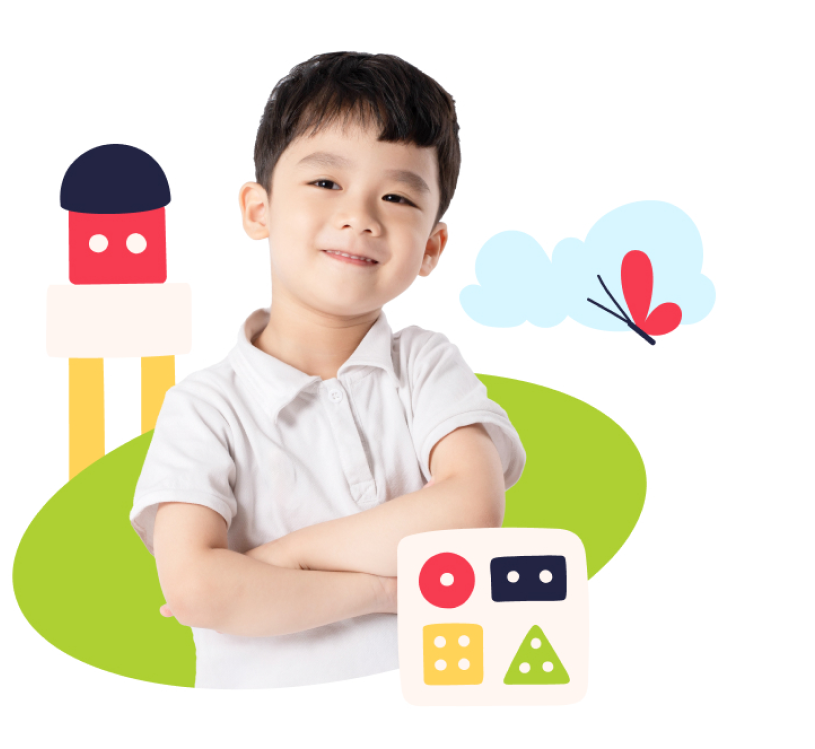
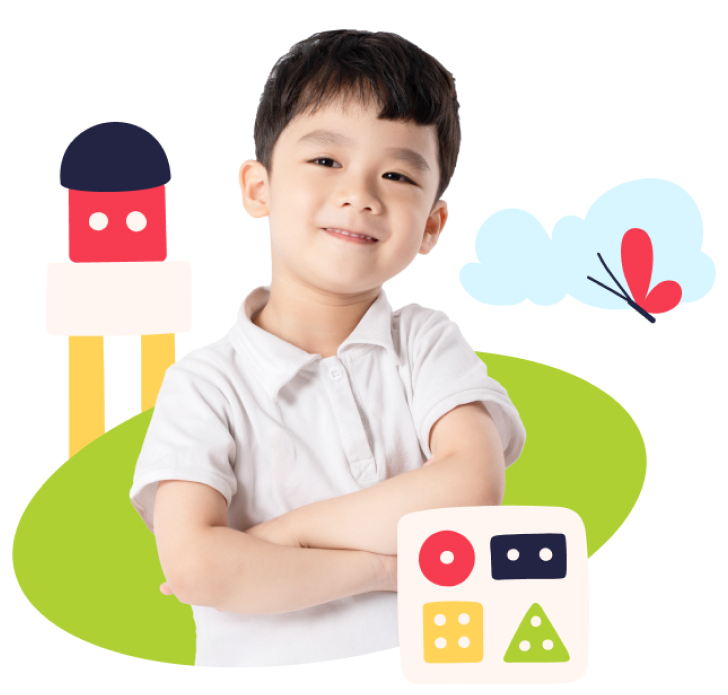
making responsive ui

diff --git a/Frontend/src/materialUIComponents/navbar/ResponsiveAppBar.js b/Frontend/src/materialUIComponents/navbar/ResponsiveAppBar.js
@@ -7,12 +7,13 @@ import { Button, Drawer, List, ListItem, ListItemText } from '@mui/material';
 import { Box } from '@mui/system';
 import { useTheme } from '@mui/material/styles';
 import useMediaQuery from '@mui/material/useMediaQuery';
+import logo from '../../assests/logo.png'
 import './NavBar.css'
 
 const Navbar = () => {
   const [drawerOpen, setDrawerOpen] = useState(false);
   const [scrolled, setScrolled] = useState(false);
-  const menuItems = ['About', 'Classes', 'Events', 'Teachers', 'Blog'];
+  const menuItems = ['About', 'Classes', 'Events', 'Teachers', 'Blog', 'Contact'];
 
   const theme = useTheme();
   const isMobile = useMediaQuery(theme.breakpoints.down('md'));
@@ -61,13 +62,16 @@ const Navbar = () => {
       backgroundColor: scrolled ? '#ffffff' : 'transparent',
       transition: 'background-color 0.2s ease',
       boxShadow: scrolled ? 2 : 'none',
-      zIndex:'1000',
-      top:'0px'
+      zIndex: '1000',
+      top: '0px'
     }}>
       <Toolbar>
+        <Box sx={{ flexGrow: 1.1, display: 'flex', justifyContent: 'flex-start' }}>
+          <img src={logo} srcSet={logo} alt='SPS' id='schoolLogo'/>
+        </Box>
         {isMobile ? (
           <>
-            <IconButton edge="start" color="inherit" aria-label="menu" onClick={handleDrawerToggle}>
+            <IconButton edge="center" color="black" aria-label="menu" onClick={handleDrawerToggle} sx={{width:"40px"}}>
               <MenuIcon />
             </IconButton>
             {drawer}
@@ -82,8 +86,8 @@ const Navbar = () => {
           </Box>
         )}
         <Box sx={{ flexGrow: 1.1, display: 'flex', justifyContent: 'flex-end' }}>
-          <Button sx={{ width: 'fit-content', backgroundColor:"#333333",color:'white', padding:"4px 25px"}} className='contactUsNav'>
-            Contact
+          <Button sx={{ width: 'fit-content', backgroundColor: "#333333", color: 'white', padding: "4px 25px" }} className='contactUsNav'>
+            login / signup
           </Button>
         </Box>
 

diff --git a/Frontend/src/components/homePage/HomePage.css b/Frontend/src/components/homePage/HomePage.css
@@ -1,6 +1,6 @@
 .HomePageContainer{
     width: 100%;
-    height: 100%;
+    height: 100vh;
     font-family: "Nunito", sans-serif;
     position: absolute;
     background-color: #fff6f1;
@@ -8,10 +8,12 @@
 .landingPage{
     margin-top: 4rem;
     width: 100%;
-    height: calc((100vw / 1612)*757);;
+    height: 100vh;
     background-image: url("../../assests/landingPage.png");
     background-repeat: no-repeat;
-    background-size: 100% 100%;
+    background-position: center;
+    background-size: cover;
+    /* background-size: 100% 100%; */
     font-weight: 100;
     display: flex;
     align-items: center;
@@ -22,6 +24,7 @@
     padding: 0px;
     margin: 0px;
     font-size: 2.2rem;
+    text-align: center;
 }
 .joinUs{
     width: fit-content;
@@ -49,13 +52,12 @@
     justify-content: space-around;
     align-items: center;
     flex-direction: row;
+    flex-wrap: wrap;
     padding: 3rem 0rem;
 }
 .exploreDesc{
-    flex-grow: 1;
-    flex-basis: 50%;
     max-width: 600px;
-    padding: 0px 80px;
+    padding: 0px 20px;
 }
 .exploreDesc h1,p{
     text-align: left;
@@ -64,13 +66,12 @@
 .explorePhoto{
     background-image: url("../../assests/explore.png");
     background-repeat: no-repeat;
-    min-height: 520px;
+    width: 450px;
+    height: 450px;
     background-size: 100% 100%;
-    flex-grow: 1;
-    flex-basis: 50%; 
-    max-width: 600px;
     flex-direction: column;
     justify-content: center; 
+    align-items: center;
 }
 #learnMore{
     background-color: #fd2841;

diff --git a/Frontend/src/components/homePage/HomePage.js b/Frontend/src/components/homePage/HomePage.js
@@ -41,7 +41,7 @@ const HomePage = () => {
             <ResponsiveAppBar />
             <div className="HomePageContainer">
                 <div className="landingPage">
-                    <p className='landedPara' style={{ marginTop: '25px' }}>Unleash Creativity,</p>
+                    <p className='landedPara' style={{ marginTop: '60px' }}>Unleash Creativity,</p>
                     <p className='landedPara'>Foster Growth, Build Friendships</p>
                     <div className="joinUs">
                         <Button id="joinNow">Join Now</Button>
@@ -84,7 +84,7 @@ const HomePage = () => {
                     <Grid2 container mt={3}>
                         {blogPosts &&
                             blogPosts.map((item, index) => {
-                                return <Grid2 item size={6} sx={{ display: 'flex', justifyContent: 'center', alignItems: 'center' }}>
+                                return <Grid2 item size={6} sx={{ display: 'flex', justifyContent: 'center', alignItems: 'center' }} key={`grid909${index}`}>
                                     <BlogCard item={item} key={`blog001${index}`} />
                                 </Grid2>
                             })}

diff --git a/Frontend/src/components/homePage/BelievableComponent.js b/Frontend/src/components/homePage/BelievableComponent.js
@@ -18,14 +18,13 @@ const BeliefsComponent = () => {
                 p: 4,
             }}
         >
-            <Grid container spacing={2}>
-                <Grid item size={{ md: 8 }}>
-                    <Typography variant="h2" sx={{ fontWeight: 'bold', mb: 4, textAlign:'left' }} pl={3}>
+            <Grid container justifyContent={"space-around"}>
+                <Grid item size={{md:5}}>
+                    <Typography variant="h2" sx={{ fontWeight: 'bold', mb: 4, textAlign:'left' }}>
                         What we believe in Sushila Public School
                     </Typography>
-
                 </Grid>
-                <Grid item size="grow">
+                <Grid item size={{md:4}}>
                     <Typography variant="body1" sx={{ mb: 4,justifyContent:'flex-end'}}>
                         Discover how our kindergarten fosters a love for learning through innovative early education.
                     </Typography>

diff --git a/Frontend/src/components/footer/Footer.js b/Frontend/src/components/footer/Footer.js
@@ -22,7 +22,7 @@ const Footer = () => {
           }}
           className="footerEdu"
         >
-          <img src={girl} alt="404" srcset={girl} className='girlImage'/>
+          <img src={girl} alt="404" srcSet={girl} className='girlImage'/>
           <Box sx={{ textAlign: 'left', flex: 1, maxWidth:'700px' }}>
             <Typography variant="h1" fontWeight="bold" textAlign='left' mb={1}>
               Get the best education

diff --git a/Frontend/src/materialUIComponents/carousel/CarouselComponent.js b/Frontend/src/materialUIComponents/carousel/CarouselComponent.js
@@ -33,7 +33,7 @@ const CarouselComponent = ({ items }) => {
             >
 
                 {items && items.map((item, index) => (
-                    <StyledCarouselItem>
+                    <StyledCarouselItem key={`carousel900${index}`}>
                         {item}
                     </StyledCarouselItem>
                 ))}

diff --git a/Frontend/src/materialUIComponents/navbar/NavBar.css b/Frontend/src/materialUIComponents/navbar/NavBar.css
@@ -1,3 +1,10 @@
 .contactUsNav:hover{
     background-color: rgb(59, 56, 56);
 }
+#schoolLogo{
+    width: 50px;
+    height: 50px;
+    border-radius: 50%;
+    border: 2px solid rgb(241, 241, 241);
+    box-shadow: 0px 0px 4px rgb(0, 0, 0);
+}
